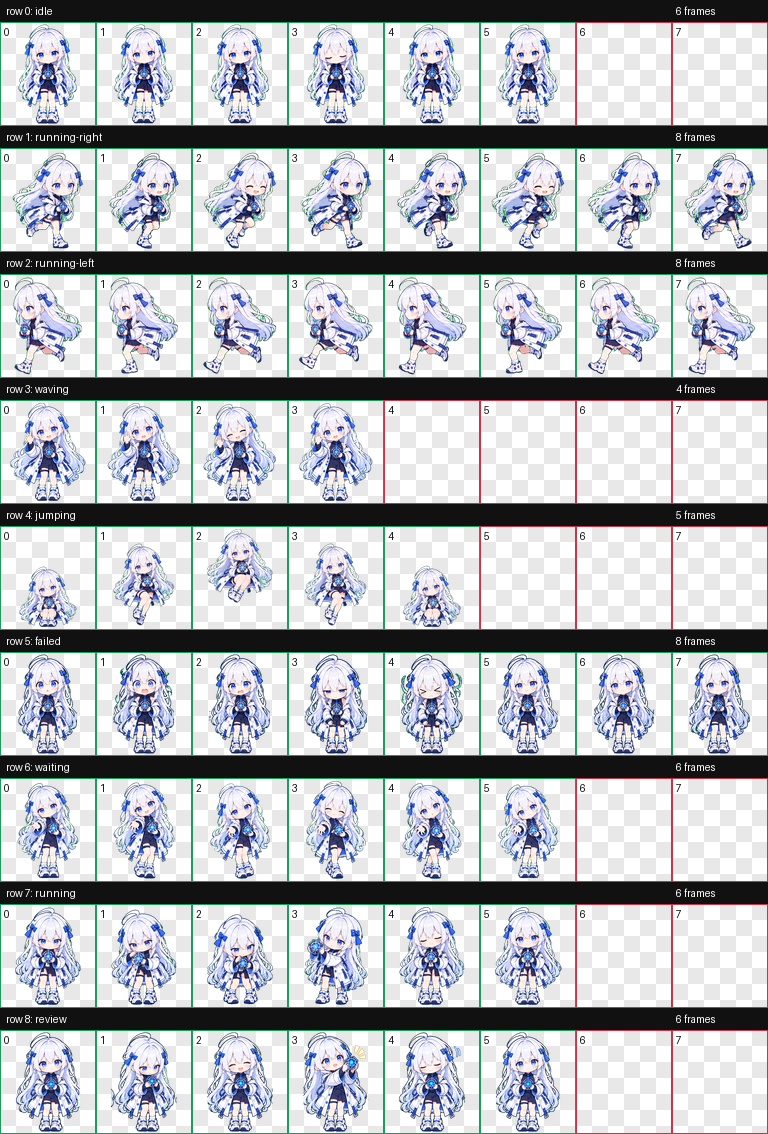
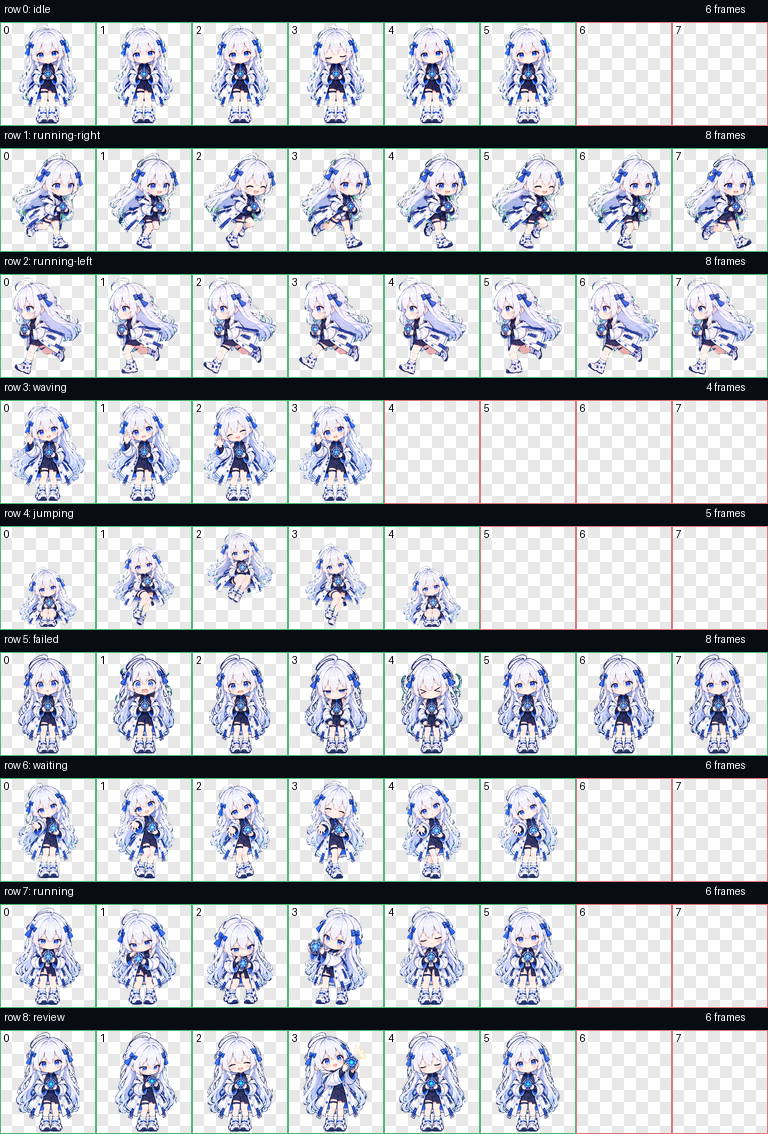
Refine Xiaoba sprite edges and installation workflow

diff --git a/work/render_xiaoba_contact.py b/work/render_xiaoba_contact.py
@@ -1,0 +1,69 @@
+"""Render a compact overview of Xiaoba's nine animation rows."""
+
+from pathlib import Path
+import sys
+
+from PIL import Image, ImageDraw
+
+
+ROWS = (
+    ("idle", 6),
+    ("running-right", 8),
+    ("running-left", 8),
+    ("waving", 4),
+    ("jumping", 5),
+    ("failed", 8),
+    ("waiting", 6),
+    ("running", 6),
+    ("review", 6),
+)
+CELL_WIDTH, CELL_HEIGHT = 192, 208
+PREVIEW_WIDTH, PREVIEW_HEIGHT = 96, 104
+HEADER_HEIGHT = 22
+
+
+def render(atlas_path: Path, output_path: Path) -> None:
+    with Image.open(atlas_path) as source:
+        atlas = source.convert("RGBA")
+    if atlas.size != (1536, 2288):
+        raise ValueError(f"Unexpected atlas dimensions: {atlas.size}")
+
+    row_height = HEADER_HEIGHT + PREVIEW_HEIGHT
+    sheet = Image.new("RGB", (8 * PREVIEW_WIDTH, len(ROWS) * row_height), "#080d13")
+    draw = ImageDraw.Draw(sheet)
+    for row, (state, frame_count) in enumerate(ROWS):
+        top = row * row_height
+        draw.text((4, top + 3), f"row {row}: {state}", fill="white")
+        draw.text((8 * PREVIEW_WIDTH - 62, top + 3), f"{frame_count} frames", fill="white")
+        for column in range(8):
+            left = column * PREVIEW_WIDTH
+            preview_top = top + HEADER_HEIGHT
+            for y in range(0, PREVIEW_HEIGHT, 12):
+                for x in range(0, PREVIEW_WIDTH, 12):
+                    shade = "#ffffff" if ((x + y) // 12) % 2 == 0 else "#e8e8e8"
+                    draw.rectangle(
+                        (left + x, preview_top + y, left + min(x + 11, 95), preview_top + min(y + 11, 103)),
+                        fill=shade,
+                    )
+            if column < frame_count:
+                frame = atlas.crop(
+                    (
+                        column * CELL_WIDTH,
+                        row * CELL_HEIGHT,
+                        (column + 1) * CELL_WIDTH,
+                        (row + 1) * CELL_HEIGHT,
+                    )
+                ).resize((PREVIEW_WIDTH, PREVIEW_HEIGHT), Image.Resampling.LANCZOS)
+                sheet.paste(frame, (left, preview_top), frame)
+            outline = "#51b778" if column < frame_count else "#d97878"
+            draw.rectangle((left, preview_top, left + 95, preview_top + 103), outline=outline)
+            draw.text((left + 4, preview_top + 2), str(column), fill="black")
+
+    output_path.parent.mkdir(parents=True, exist_ok=True)
+    sheet.save(output_path)
+
+
+if __name__ == "__main__":
+    if len(sys.argv) != 3:
+        raise SystemExit("Usage: python render_xiaoba_contact.py ATLAS OUTPUT")
+    render(Path(sys.argv[1]), Path(sys.argv[2]))

diff --git a/work/clean_review_fragment.py b/work/clean_review_fragment.py
@@ -1,0 +1,27 @@
+"""Remove the neighboring pose sliver in Xiaoba's review frame 1."""
+
+from pathlib import Path
+import sys
+
+from PIL import Image
+
+
+def clean(source: Path, destination: Path) -> None:
+    with Image.open(source) as opened:
+        atlas = opened.convert("RGBA")
+    if atlas.size != (1536, 2288):
+        raise ValueError(f"Unexpected atlas dimensions: {atlas.size}")
+
+    left, top = 192, 8 * 208
+    for y in range(117, 156):
+        for x in range(29, 38):
+            atlas.putpixel((left + x, top + y), (0, 0, 0, 0))
+
+    destination.parent.mkdir(parents=True, exist_ok=True)
+    atlas.save(destination, format="WEBP", lossless=True, quality=100, method=6, exact=True)
+
+
+if __name__ == "__main__":
+    if len(sys.argv) != 3:
+        raise SystemExit("Usage: python clean_review_fragment.py ATLAS OUTPUT_WEBP")
+    clean(Path(sys.argv[1]), Path(sys.argv[2]))

diff --git a/README.md b/README.md
@@ -4,6 +4,6 @@
 
 原生 v2 桌宠文件位于 [`work/xiaoba/native`](work/xiaoba/native)：`pet.json` 和 `spritesheet.webp`。图集为 8 列 × 11 行，单格 192×208，包含九种动画状态及十六个注视方向。
 
-Windows 上运行 `work/安装小巴.ps1`，会将小巴复制到当前用户的 `.codex/pets/xiaoba`，并在 `.codex/config.toml` 中选中、显示小巴。脚本会备份原配置为 `config.before-xiaoba.toml`。安装后如未立即显示，在 Codex 的 Settings > Pets 中刷新。
+Windows 上运行 `work/安装小巴.ps1`，会将小巴复制到当前用户的 `.codex/pets/xiaoba`（设置了 `CODEX_HOME` 时使用该目录），并在 `config.toml` 中选中、显示小巴。首次安装时脚本会备份原配置为 `config.before-xiaoba.toml`，后续运行不会覆盖这份备份。安装后如未立即显示，在 Codex 的 Settings > Pets 中刷新。
 
-[`outputs/xiaoba/completed-contact.png`](outputs/xiaoba/completed-contact.png) 是九种动作的总览。用户要求直接安装和提交，本次没有执行最终完整图集质量校验。
+[`outputs/xiaoba/completed-contact.png`](outputs/xiaoba/completed-contact.png) 是九种动作的总览，可用 `python work/render_xiaoba_contact.py work/xiaoba/native/spritesheet.webp outputs/xiaoba/completed-contact.png` 重新生成。图集边缘的绿色残影和检查成果动作中的多余碎片已经修复。用户要求直接安装和提交，本项目尚未执行最终完整图集质量校验。

diff --git a/work/xiaoba/qa/resume-status.md b/work/xiaoba/qa/resume-status.md
@@ -1,5 +1,15 @@
 # Resume status
 
+## Current status — 2026-10-25
+
+- The native v2 package is in `work/xiaoba/native/`: `pet.json` and `spritesheet.webp`. It contains nine animation rows and sixteen look directions.
+- `work/安装小巴.ps1` installs and selects Xiaoba in the local Codex desktop app. It was run on the current machine on 2026-10-23; the updated sprite was reinstalled on 2026-10-25.
+- On 2026-10-25, green chroma spill was removed from the complete atlas, and a neighboring-frame fragment was removed from review row frame 1. The action overview was regenerated from the updated sprite.
+- The user requested direct installation and PR submission without final full-atlas quality validation. That validation remains undone.
+- The notes below record the earlier 2026-10-22 production state and should not be read as the current package status.
+
+## Earlier production notes
+
 - User authorized system Python C:/Users/cwrt/miniconda3/python.exe because bundled workspace runtime is unconfigured. Pillow 12.2.0 verified. Use this full executable path for scripts.
 - Canonical base preserved and approved.
 - Idle source repair v3 selected, independent component extraction and inspect_frames passed. Frames at qa/rows/idle/frames/idle.

diff --git a/outputs/xiaoba/设计说明.md b/outputs/xiaoba/设计说明.md
@@ -21,3 +21,5 @@
 图片服务多次返回连接/响应解码错误。减少为主造型与布局两张参考后，新版挥手成功生成。最终采用的提示词见 prompts/waving-polish-v2-two-ref.md。用户已允许使用本机带 Pillow 的 Python 运行原版校验脚本。
 
 桌宠已通过 `work/安装小巴.ps1` 安装到当前电脑并设为选中。此次按用户要求未进行最终完整图集质量校验。
+
+2026-10-25 优化：对完整图集进行绿色抠图边缘去色，清除“检查成果”第 2 帧左侧从相邻姿态带入的碎片，并重新导出动作总览图。安装脚本支持 `CODEX_HOME`，再次安装时保留首次配置备份。
